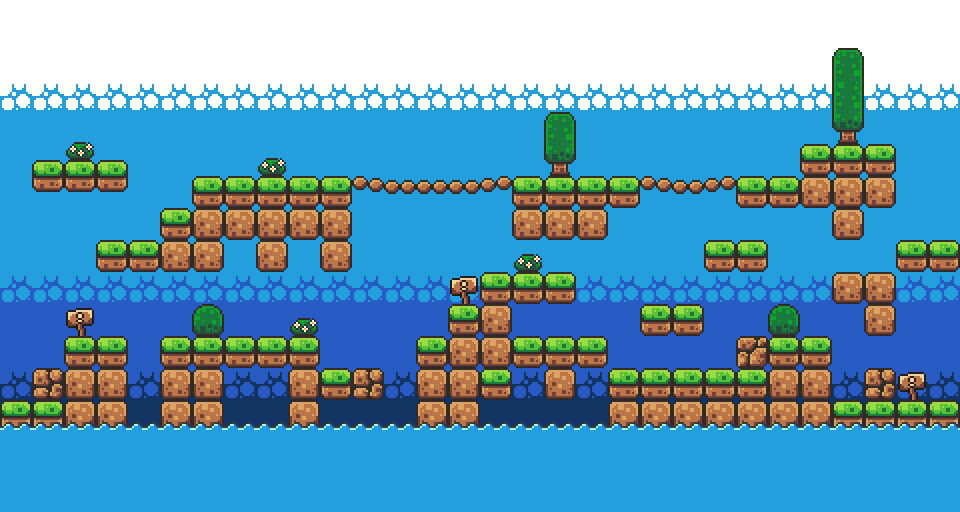
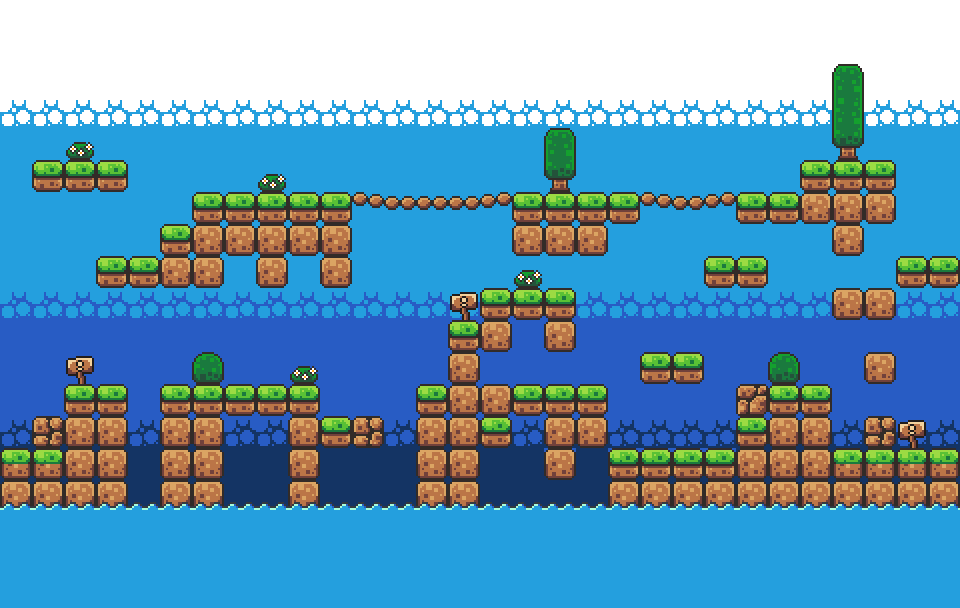
add grid to help finding position

diff --git a/src/game.js b/src/game.js
@@ -3,17 +3,18 @@ class Game {
     this.background = new Background();
     this.map = new Map();
     this.player = new Player();
-    this.balloon = new Balloon(520, 205);
-    this.balloon2 = new Balloon(900, 495);
-    this.grape = new Grape(350, 450);
+    this.balloon = new Balloon(520, 210);
+    this.balloon2 = new Balloon(900, 590);
+    this.grape = new Grape(340, 450);
     this.grape2 = new Grape(960, 400);
-    this.pear = new Pear(195, 310);
-    this.pear2 = new Pear(1200, 165);
+    this.pear = new Pear(195, 330);
+    this.pear2 = new Pear(1200, 185);
     this.plum = new Plum(145, 190);
-    this.plum2 = new Plum(1105, 312);
-    this.apple = new Apple(1390, 290);
-    this.orange = new Orange(430, 212);
-    this.orange2 = new Orange(1295, 505);
+    this.plum2 = new Plum(1105, 332);
+    this.plum3 = new Plum(770, 480);
+    this.apple = new Apple(1390, 330);
+    this.orange = new Orange(435, 235);
+    this.orange2 = new Orange(1295, 480);
   }
 
   preload() {
@@ -27,6 +28,7 @@ class Game {
     this.pear2.preload();
     this.plum.preload();
     this.plum2.preload();
+    this.plum3.preload();
     this.apple.preload();
     this.orange.preload();
     this.orange2.preload();
@@ -34,6 +36,7 @@ class Game {
 
   play() {
     this.background.drawBackground();
+    this.drawGrid(); // only for checking the tile position
     this.player.drawPlayer();
     this.player.movePlayer();
     this.map.drawMap();
@@ -45,6 +48,7 @@ class Game {
     this.pear2.drawPear();
     this.plum.drawPlum();
     this.plum2.drawPlum();
+    this.plum3.drawPlum();
     this.apple.drawApple();
     this.orange.drawOrange();
     this.orange2.drawOrange();
@@ -59,18 +63,30 @@ class Game {
     // repeat following logic on all the tiles
     // following is hard code for testing the function
     return (
-      player.x >= 64 &&
-      player.x <= 64 * 2.5 &&
-      player.y + player.height >= player.floor - 32 &&
-      player.y + player.height <= player.floor - 16
+      player.x >= SQUARE_SIDE * 2 - (2 / 3) * player.width &&
+      player.x <= SQUARE_SIDE * 3 + (2 / 3) * player.width &&
+      player.y + player.height >= SQUARE_SIDE * 11 &&
+      player.y + player.height <= SQUARE_SIDE * 12 + 5
     );
   }
 
   landOnPlatform(player) {
     this.player.velocity = 0;
     this.player.jumpCount = 0;
-    this.player.y = 450; // hard code for land y position
-    console.log("hit");
+    this.player.y = SQUARE_SIDE * 11; // hard code for land y position
+    // console.log("hit");
+  }
+
+  // only for checking the tile position
+  drawGrid() {
+    for (let i = 0; i <= CANVAS_WIDTH; i += SQUARE_SIDE) {
+      for (let j = 0; j < CANVAS_HEIGHT; j += SQUARE_SIDE) {
+        //horizontal lines
+        line(0, j, CANVAS_WIDTH, j);
+        //vertical lines
+        line(i, 0, i, CANVAS_HEIGHT);
+      }
+    }
   }
 
   keyPressed() {

diff --git a/constants.js b/constants.js
@@ -1,7 +1,9 @@
 // BACKGROUND
 const CANVAS_SIZE = 1.5;
 const CANVAS_WIDTH = 960 * CANVAS_SIZE;
-const CANVAS_HEIGHT = 512 * CANVAS_SIZE;
+const CANVAS_HEIGHT = 608 * CANVAS_SIZE;
+const SQUARE_SIDE = 32 * CANVAS_SIZE;
+const FLOOR = 416 * CANVAS_SIZE;
 
 // PLATFORMS
 const FIRST_PLATFORM_FROM_TOP = 16 * 9 * CANVAS_SIZE;

diff --git a/src/character.js b/src/character.js
@@ -2,10 +2,10 @@ class Player {
   constructor() {
     this.x = -7;
     this.y = 0;
-    this.width = 64;
-    this.height = 64;
+    this.width = 48;
+    this.height = 48;
     this.velocity = 0;
-    this.floor = 535;
+    this.floor = FLOOR;
     this.canJump = true;
   }
 

diff --git a/src/platformMap.js b/src/platformMap.js
@@ -3,8 +3,8 @@
 
 class Map {
   constructor() {
-    this.tileWidth = 64;
-    this.tileHeight = 64;
+    this.tileWidth = SQUARE_SIDE;
+    this.tileHeight = SQUARE_SIDE;
   }
 
   drawMap() {
